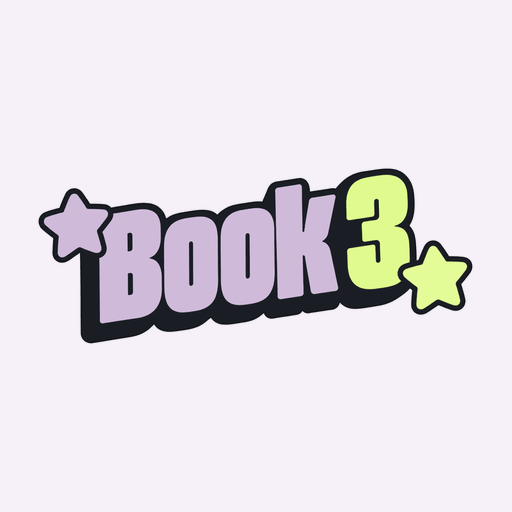
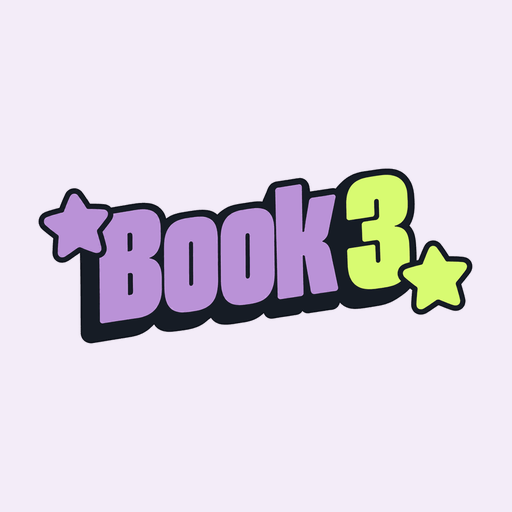
Book3: stronger lavender (#BB93D8) and green (#D8FB71), not pastel
- logo recoloured from the original artwork; theme, tints, landing bg and icons follow
- icons regenerated, ?v= bumped to 5

Claude-Session: https://claude.ai/code/session_012hzYGNimZx2VPmko4G3Bp1

Changed region(s): [[0.0938, 0.3438, 0.9062, 0.6562]]

diff --git a/style.css b/style.css
@@ -234,7 +234,7 @@ body[data-bank="main"],button.card.bank.ac-gsat{--accent:var(--y);--accent-soft:
 
 /* ===== v5: blob faces, individual tab icons, consistent thick outlines ===== */
 :root{
-  --page:#D0BCDA;--bg:#f5ead6;--surface:#fffcf5;--ink:#1a1a1a;--muted:#6b5e50;--line:#d9c9a8;
+  --page:#BB93D8;--bg:#f5ead6;--surface:#fffcf5;--ink:#1a1a1a;--muted:#6b5e50;--line:#d9c9a8;
   --blue:#2347f0;--yellow:#ffd200;--red:#ff3b1d;--green:#00b856;--pink:#ff6b9d;--orange:#ff8c1a;
   --accent:#2347f0;--accent-soft:#dde4ff;--accent-ink:#1a1a1a;
   --good:#00a34a;--good-soft:#d8f5e3;--bad:#e5270e;--bad-soft:#ffe0da;--warn:#d98e00;
@@ -405,11 +405,11 @@ body[data-bank] .mode:disabled{opacity:.55}
 body[data-bank] .chip.on{background:var(--yellow);color:#1a1a1a;border-color:#1a1a1a}
 
 /* ===== one orange everywhere (same as the home page) ===== */
-:root{--red:#D0BCDA;--orange:#D0BCDA;--accent:#D0BCDA;--accent-soft:#EFE8F4}
-body[data-bank]{--accent:#D0BCDA;--accent-soft:#EFE8F4;--accent-ink:#1a1a1a}
+:root{--red:#BB93D8;--orange:#BB93D8;--accent:#BB93D8;--accent-soft:#EFE4F7}
+body[data-bank]{--accent:#BB93D8;--accent-soft:#EFE4F7;--accent-ink:#1a1a1a}
 
 /* error / warning colors use the same orange; text inputs match the other fields */
-:root,body[data-bank]{--bad:#D0BCDA;--bad-soft:#EFE8F4;--warn:#D0BCDA}
+:root,body[data-bank]{--bad:#BB93D8;--bad-soft:#EFE4F7;--warn:#BB93D8}
 input[type=text],input[type=search]{max-width:150px;min-width:0;border:2.5px solid #1a1a1a;border-radius:14px;background:var(--surface);font:inherit;padding:8px 10px;color:var(--ink)}
 
 /* ===== compact multiple-choice question so the answer card fits on screen ===== */
@@ -441,7 +441,7 @@ body #tabs button.on .ti{background:#1a1a1a}
 
 /* ===== progress calendar: circles ===== */
 :is(.heat,.star-legend) i circle.c{fill:none;stroke:var(--muted);stroke-width:1.5;stroke-dasharray:2.4 2.2}
-:is(.heat,.star-legend) i[data-l="1"] circle.c{fill:#EFE8F4;stroke:var(--page);stroke-width:1.8;stroke-dasharray:none}
+:is(.heat,.star-legend) i[data-l="1"] circle.c{fill:#EFE4F7;stroke:var(--page);stroke-width:1.8;stroke-dasharray:none}
 :is(.heat,.star-legend) i[data-l="2"] circle.c{fill:var(--page);stroke:#1a1a1a;stroke-width:1.8;stroke-dasharray:none}
 :is(.heat,.star-legend) i.f circle.c{fill:none;stroke:var(--muted);stroke-width:1.5;stroke-dasharray:2.4 2.2}
 :is(.heat,.star-legend) i circle.dot{fill:var(--page);stroke:#1a1a1a;stroke-width:1.4}
@@ -470,7 +470,7 @@ body[data-bank] .btn.ghost.danger-btn,.btn.ghost.danger-btn{background:#1a1a1a;c
 
 /* marked days are stars; unmarked days stay dotted circles */
 :is(.heat,.star-legend) i polygon.st{stroke-linejoin:round}
-:is(.heat,.star-legend) i[data-l="1"] polygon.st{fill:#EFE8F4;stroke:var(--page);stroke-width:1.6}
+:is(.heat,.star-legend) i[data-l="1"] polygon.st{fill:#EFE4F7;stroke:var(--page);stroke-width:1.6}
 :is(.heat,.star-legend) i[data-l="2"] polygon.st{fill:var(--page);stroke:#1a1a1a;stroke-width:1.6}
 
 /* ===== theme color: everything follows --page (set from settings) ===== */
@@ -513,8 +513,8 @@ mark.ans.miss{background:var(--bad-soft);color:var(--bad)}
 .brand-foot{text-align:center;line-height:1.2}
 .brand-foot .brand.sm{width:96px;margin:0 auto 4px}
 body.landing #tabs{display:none}
-body.landing{padding-bottom:0;background:#F6F1F8}
-html:has(body.landing),html:has(body.landing) body{background:#F6F1F8!important}
+body.landing{padding-bottom:0;background:#F3ECF8}
+html:has(body.landing),html:has(body.landing) body{background:#F3ECF8!important}
 .landing-btn{display:flex;align-items:center;justify-content:center;position:fixed;inset:0;width:100%;height:100%;margin:0;padding:24px;border:0;border-radius:0;
   background:transparent;box-shadow:none;cursor:pointer;-webkit-tap-highlight-color:transparent}
 .landing-logo{width:min(78vw,420px);height:auto;transition:transform .15s}
@@ -524,7 +524,7 @@ html:has(body.landing),html:has(body.landing) body{background:#F6F1F8!important}
 @keyframes landing-bob{0%,100%{transform:translateY(0)}50%{transform:translateY(-8px)}}
 
 /* ===== bottom tab bar: black bar stays; what used to be pink (icons, labels, active bubble) = the green of the logo ===== */
-:root{--logo-green:#DFFB8E}
+:root{--logo-green:#D8FB71}
 body #tabs button .ti{background:var(--logo-green)}
 body #tabs button.on::before{background:var(--logo-green)}
 body #tabs button.on .ti{background:#1a1a1a}

diff --git a/index.html b/index.html
@@ -5,11 +5,11 @@
 <meta name="viewport" content="width=device-width, initial-scale=1, viewport-fit=cover">
 <title>Book3</title>
 <meta name="color-scheme" content="light">
-<meta name="theme-color" content="#D0BCDA">
+<meta name="theme-color" content="#BB93D8">
 <meta name="description" content="英文單字:選擇題、拼字、克漏字練習">
-<link rel="manifest" href="manifest.webmanifest?v=4">
-<link rel="icon" href="icons/v2/favicon-64.png?v=4" type="image/png">
-<link rel="apple-touch-icon" sizes="180x180" href="icons/v2/apple-touch-icon.png?v=4">
+<link rel="manifest" href="manifest.webmanifest?v=5">
+<link rel="icon" href="icons/v2/favicon-64.png?v=5" type="image/png">
+<link rel="apple-touch-icon" sizes="180x180" href="icons/v2/apple-touch-icon.png?v=5">
 <meta name="apple-mobile-web-app-capable" content="yes">
 <meta name="mobile-web-app-capable" content="yes">
 <meta name="apple-mobile-web-app-title" content="Book3">

diff --git a/app.js b/app.js
@@ -351,7 +351,7 @@ function renderProgress() {
   app.innerHTML = html;
 }
 
-const PAGE_PINK = '#D0BCDA'; // the pink of "Book" in the logo — the one and only theme colour
+const PAGE_PINK = '#BB93D8'; // the pink of "Book" in the logo — the one and only theme colour
 function applyTheme() {
   document.documentElement.style.setProperty('--page', PAGE_PINK);
   document.documentElement.style.setProperty('--page-ink', '#1a1a1a');

diff --git a/CLAUDE.md b/CLAUDE.md
@@ -9,14 +9,14 @@ Reply to the teacher in Traditional Chinese; keep customary English terms (push,
 - Local git repo only (`main`), **no remote yet, nothing published**. Still needed from the teacher: an empty GitHub repo under
   `shuanmaker-web` (then `add_repo(..., access=push)`) and the real 核單 material.
 - The teacher will check the yellow-word glosses (the ones written by Claude) **after the first push** — keep them listed for review.
-- Name Book3; app icons = Vocaboo's (as requested). **Brand:** the Book3 logo (`icons/logo.png`: lavender-pink "Book" + lime "3" + stars,
+- Name Book3; app icons = Vocaboo's (as requested). **Brand:** the Book3 logo (`icons/logo.png`: lavender "Book" + lime "3" + stars,
   transparent PNG) replaces every "Book3" text in the UI (home hero, settings footer, loading placeholder). Opening the app shows a
   **landing page with only the logo, which is a full-screen button** (tap anywhere → home; shown on every load, tabs hidden there).
-- **One fixed theme colour: the lavender-pink of "Book", `#D0BCDA`** (`PAGE_PINK` in `app.js` → CSS `--page`; also `theme-color` meta and
+- **One fixed theme colour: the lavender of "Book", `#BB93D8`** (`PAGE_PINK` in `app.js` → CSS `--page`; also `theme-color` meta and
   manifest). There is **no colour picker** any more (old saved `theme` values are ignored). Text on pink is dark ink (`--page-ink`
   `#1a1a1a`), never white; the theme colour is not used for text on light cards (low contrast).
-  Logo colours are deliberately desaturated (lavender-pink `#D0BCDA`, green `#DFFB8E`). The **bottom tab bar stays black; its icons, labels and the active-tab bubble are the logo green**
-  (`--logo-green`, appended at the end of `style.css`). **App/desktop icons** (`icons/v2/*`) = the logo on `#F6F1F8`; if the logo changes,
+  Logo colours are slightly toned down from the original artwork but not pastel (lavender `#BB93D8`, green `#D8FB71`). The **bottom tab bar stays black; its icons, labels and the active-tab bubble are the logo green**
+  (`--logo-green`, appended at the end of `style.css`). **App/desktop icons** (`icons/v2/*`) = the logo on `#F3ECF8`; if the logo changes,
   regenerate them and bump `?v=` in `index.html` + `manifest.webmanifest`.
 
 ## NEVER push before the teacher says CONFIRM ⚠

diff --git a/README.md b/README.md
@@ -4,12 +4,12 @@
 IndexedDB(`book3-v1`)與 Service Worker 快取(`book3-*`),不會動到 Vocaboo / Vocabee 的資料。
 
 ## 外觀
-- **Logo**:`icons/logo.png`(薰衣草粉紫 "Book" + 萊姆綠 "3" + 星星,透明背景)。App 內所有「Book3」字樣都用這張圖取代
+- **Logo**:`icons/logo.png`(薰衣草紫 "Book" + 萊姆綠 "3" + 星星,透明背景)。App 內所有「Book3」字樣都用這張圖取代
   (首頁標題、設定頁底部、載入畫面)。
 - **開啟畫面(landing page)**:每次開啟 App 先看到只有 logo 的畫面,logo 是一個蓋滿整個畫面的按鈕,點一下就進入首頁。
-- **主色固定為 "Book" 的薰衣草粉紫 `#D0BCDA`**(`app.js` 的 `PAGE_PINK`),設定頁沒有顏色選項。這個色底上的文字一律用深色。
-  Logo 的顏色已調低飽和度(薰衣草粉紫 `#D0BCDA`、綠 `#DFFB8E`);**下方分頁列維持黑色,原本粉紅的部分(圖示、文字、目前頁籤的圓圈)改用 logo 的綠色**。
-- **桌面圖示**(`icons/v2/`:icon-192/512、maskable-512、apple-touch-icon、favicon-64)都是這個 logo,放在淺粉底 `#F6F1F8` 上;
+- **主色固定為 "Book" 的薰衣草紫 `#BB93D8`**(`app.js` 的 `PAGE_PINK`),設定頁沒有顏色選項。這個色底上的文字一律用深色。
+  Logo 的顏色(比原圖淡一點,但不走粉彩)(薰衣草紫 `#BB93D8`、綠 `#D8FB71`);**下方分頁列維持黑色,原本粉紅的部分(圖示、文字、目前頁籤的圓圈)改用 logo 的綠色**。
+- **桌面圖示**(`icons/v2/`:icon-192/512、maskable-512、apple-touch-icon、favicon-64)都是這個 logo,放在淺粉底 `#F3ECF8` 上;
   maskable 版縮小留安全邊界。更換 logo 後要重做這 5 張,並把 `index.html` / `manifest.webmanifest` 裡的 `?v=` 加一,
   手機才會更新圖示(已加到桌面的圖示 Android 通常要移除後重新加入才會換)。
 
